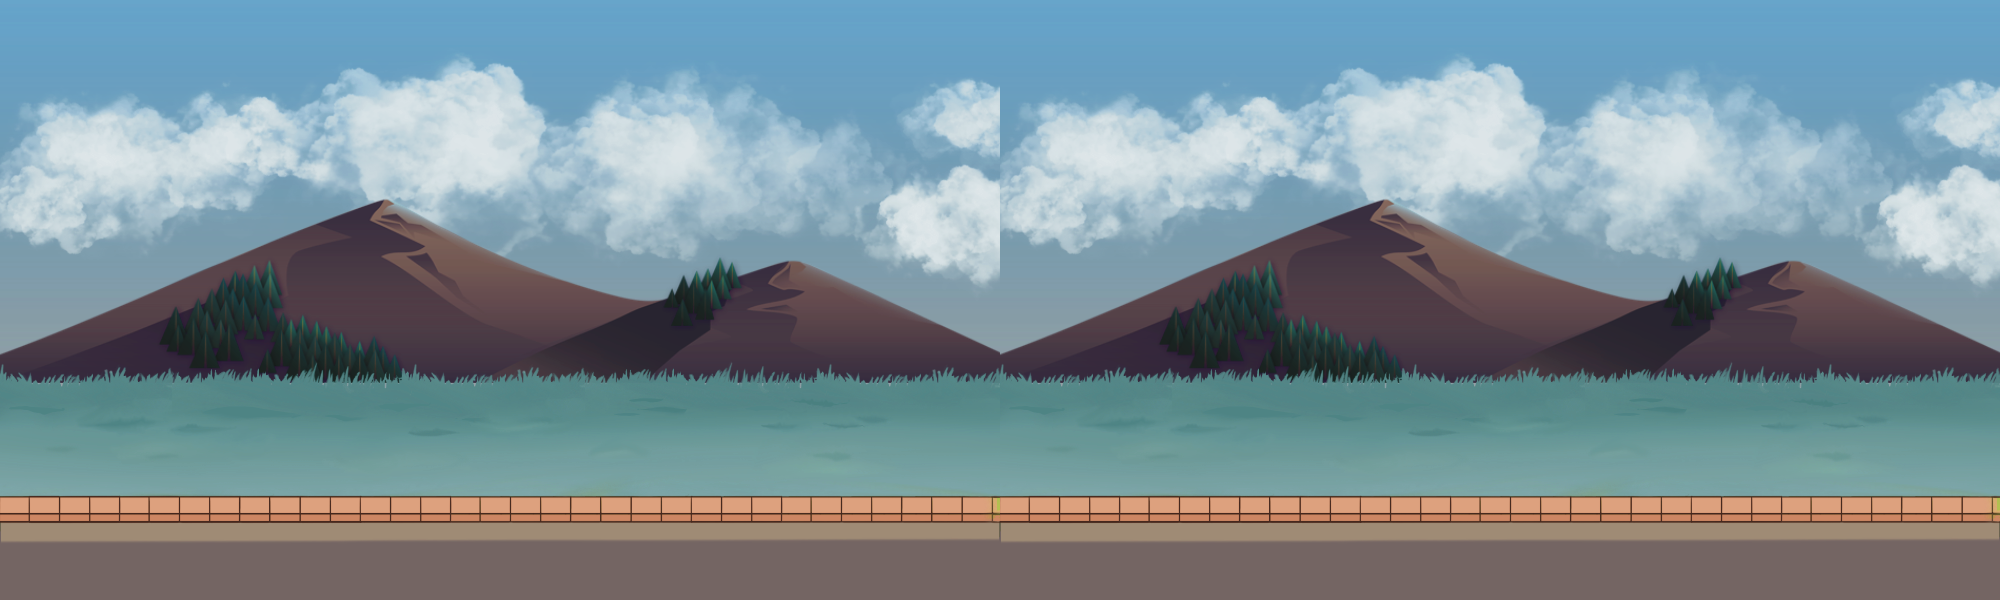
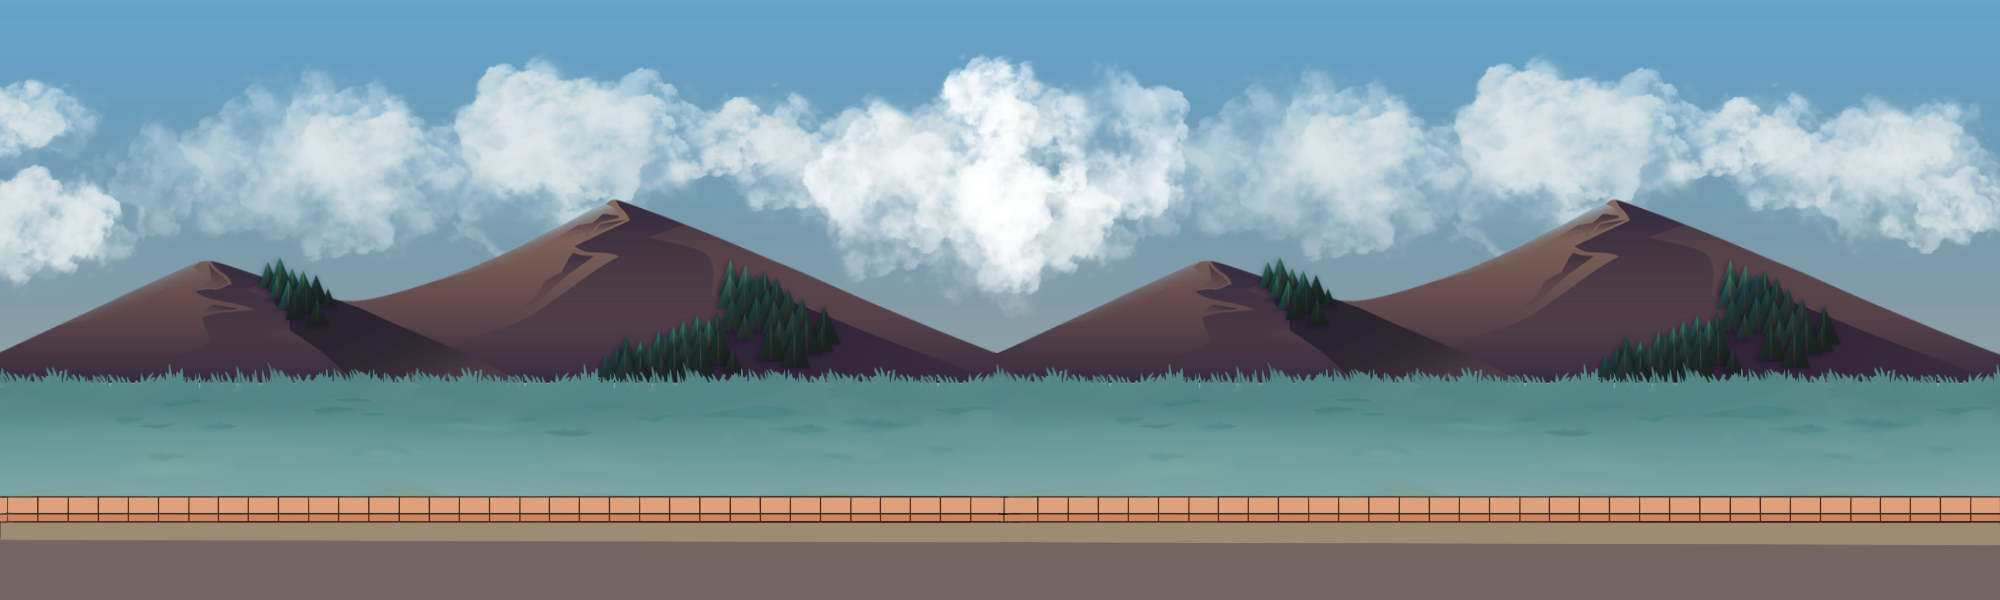
modify bgs

diff --git a/level_folder/level_3/config.py b/level_folder/level_3/config.py
@@ -37,7 +37,7 @@ level_config = {
     ],
     "spawn_interval": 2000,
     "survival_time": 120,
-    "background_path": "images/background/background1.png",
+    "background_path": "images/background/background2_x2.png",
     "our_tower": {
         "y": 140,
         "width": 350,

diff --git a/level_folder/level_4/config.py b/level_folder/level_4/config.py
@@ -43,7 +43,7 @@ level_config = {
     ],
     "spawn_interval": 2000,
     "survival_time": 120,
-    "background_path": "images/background/background5.png",
+    "background_path": "images/background/background5_x2.png",
     "our_tower": {
         "y": 140,
         "width": 350,

diff --git a/level_folder/level_5/config.py b/level_folder/level_5/config.py
@@ -43,7 +43,7 @@ level_config = {
     ],
     "spawn_interval": 2000,
     "survival_time": 120,
-    "background_path": "images/background/background5.png",
+    "background_path": "images/background/background5_x2.png",
     "our_tower": {
         "y": 140,
         "width": 350,

diff --git a/level_folder/level_2/config.py b/level_folder/level_2/config.py
@@ -37,7 +37,7 @@ level_config = {
     ],
     "spawn_interval": 2500,
     "survival_time": 90,
-    "background_path": "images/background/background4.png",
+    "background_path": "images/background/background4_x2.png",
     "our_tower": {
         "y": 140,
         "width": 350,
